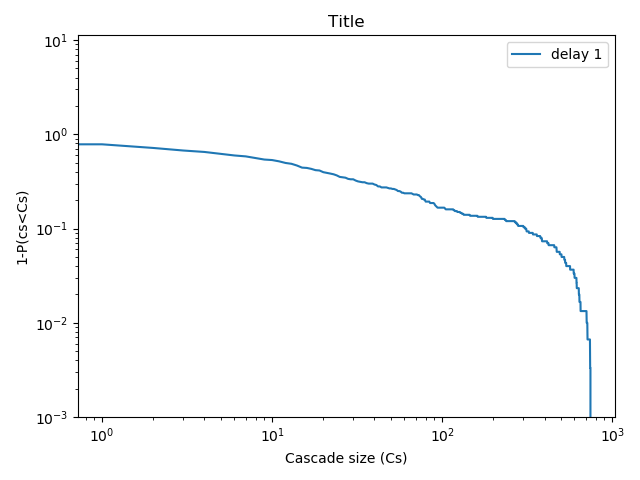
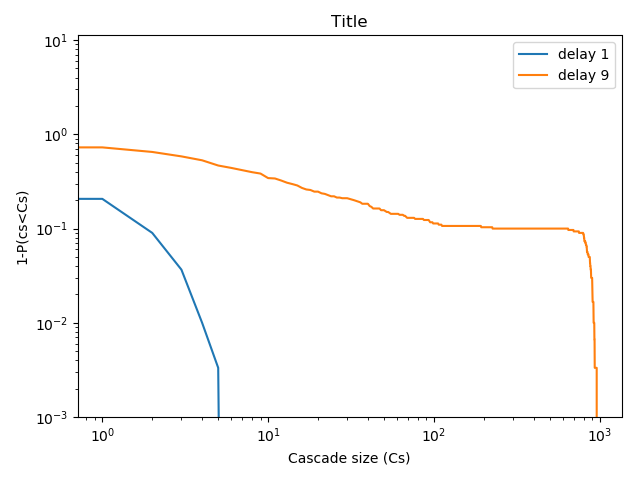
some plots

diff --git a/cascades_main.py b/cascades_main.py
@@ -7,7 +7,7 @@ g = pickle.load(open('BA/graph_ba.pickle', 'rb'))
 
 
 
-sizes = cascades_sizes_multiple(g,mu=0.2,beta=0.6,delays=[1],policy='NONE',repetitions=30,
+sizes = cascades_sizes_multiple(g,mu=0.2,beta=0.6,delays=[1,9],policy='SOFT',repetitions=30,
                                 filename='BA/results/cascades/')
 
 end = time.time()
@@ -16,7 +16,7 @@ print(end-start)
 
 print(sizes)
 
-res = plot_cascade_sizes(sizes,delays=[1],ylim = 10e-4,
+res = plot_cascade_sizes(sizes,delays=[1,9],ylim = 10e-4,
                          filename='BA/images/cascades/compa6_SOFT3.png')
 
 print(res)
